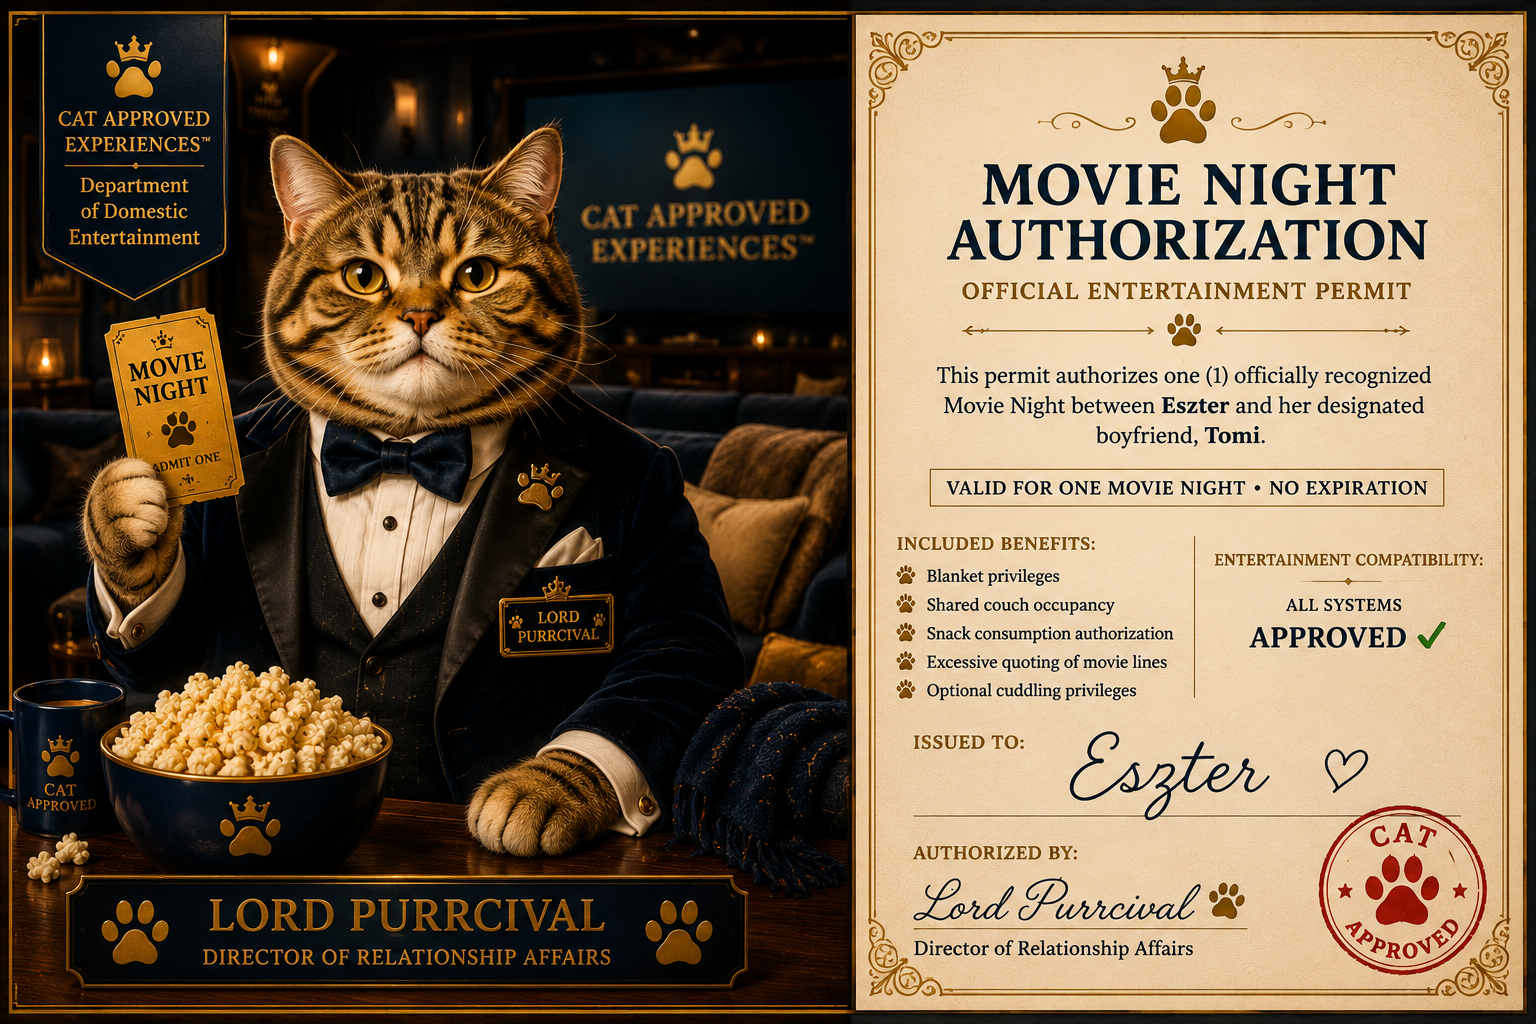
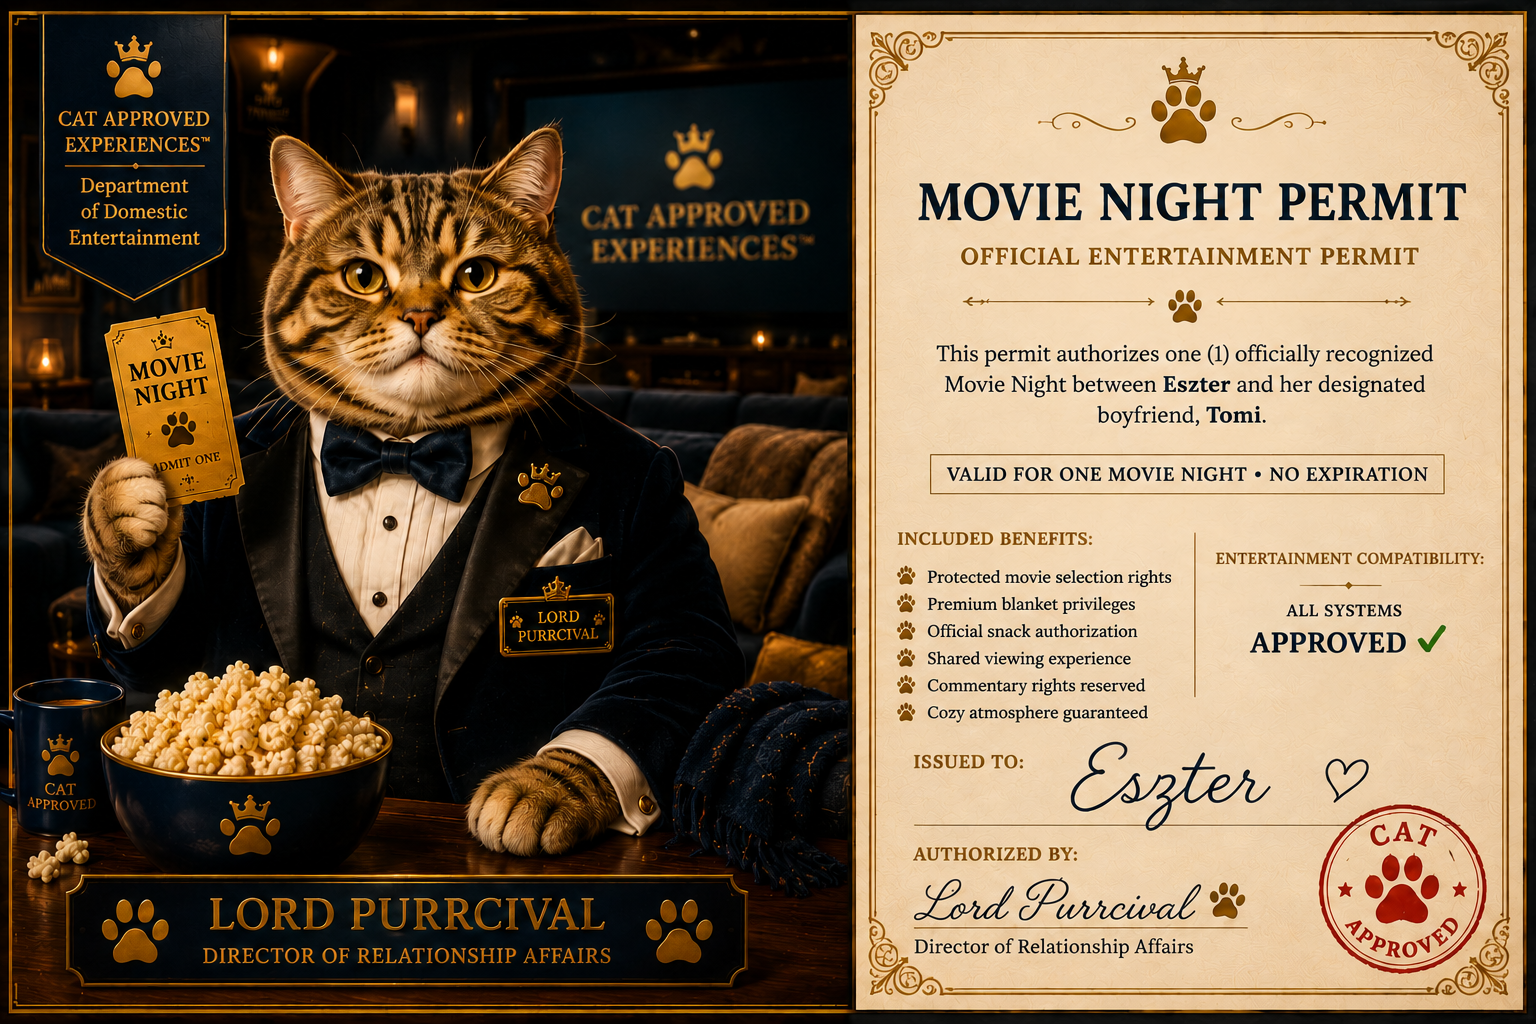
Align Movie Night Permit canon

diff --git a/shared/translations.js b/shared/translations.js
@@ -555,16 +555,16 @@ window.CAE_TRANSLATIONS = {
     },
     movieNight: {
         en: {
-            pageTitle: "Movie Night Authorization | Cat Approved Experiences™",
+            pageTitle: "Movie Night Permit | Cat Approved Experiences™",
             translatorAriaLabel: "Cat Approved Experiences translation services",
             languageSwitcherAriaLabel: "Language switcher",
-            title: "Movie Night Authorization",
+            title: "Movie Night Permit",
             certification: "🐾 Certified by Cat Approved Experiences™",
             translatorNote: "Translation services provided by Lord Purrcival in exchange for snacks.",
             department: "Department of Domestic Entertainment",
             approvedByLord: "Approved by Lord Purrcival",
             approvalOfficerLabel: "APPROVAL OFFICER",
-            approvalOfficerPortraitAlt: "Lord Purrcival serving as official approval officer for the Movie Night Authorization",
+            approvalOfficerPortraitAlt: "Lord Purrcival serving as official approval officer for the Movie Night Permit",
             approver: "Lord Purrcival",
             directorTitle: "Director of Relationship Affairs",
             applicationStatus: "Application Status",
@@ -573,14 +573,14 @@ window.CAE_TRANSLATIONS = {
             benefits: "Included Benefits",
             benefit1: "🧺 Blanket privileges",
             benefit2: "🛋 Shared couch occupancy",
-            benefit3: "🍿 Snack consumption authorization",
+            benefit3: "🍿 Snack consumption permit",
             benefit4: "🎭 Excessive quoting of movie lines",
             benefit5: "❤ Optional cuddling privileges",
             reviewTitle: "Entertainment Compatibility Review",
             reviewDescription: "Conduct a formal review before the entertainment schedule is approved.",
             reviewButton: "Conduct Entertainment Review",
             legalNotice: "Legal Notice",
-            legalText1: "This authorization remains valid until scheduled by Eszter.",
+            legalText1: "This permit remains valid until scheduled by Eszter.",
             legalText2: "Cat Approved Experiences™ accepts no responsibility for:",
             legal1: "Unplanned franchise marathons",
             legal2: "Snack ration renegotiation",
@@ -607,7 +607,7 @@ window.CAE_TRANSLATIONS = {
             requestSnackPlaceholder: "Popcorn, chocolate, drinks, or other authorized couch provisions.",
             requestMaterialsNote: "Title and snack details are required so Tomi can prepare the entertainment docket responsibly.",
             requestSubmitButton: "Submit Movie Night Request",
-            requestBackButton: "Return to Authorization",
+            requestBackButton: "Return to Permit",
             requestConfirmationSummaryTitle: "Submitted Request Details",
             actions: {
                 movieNightReview: {
@@ -637,7 +637,7 @@ window.CAE_TRANSLATIONS = {
                 }
             },
             redemptionRequest: {
-                couponName: "Movie Night Authorization",
+                couponName: "Movie Night Permit",
                 recipientName: "Eszter",
                 assignedTo: "Tomi",
                 reviewButton: "Review Submitted Request",
@@ -3623,7 +3623,7 @@ window.CAE_TRANSLATIONS = {
             coupon002Title: "Lazy Day Permit",
             coupon002Department: "Department of Relaxation",
             coupon002Description: "Authorize one protected period of doing absolutely nothing.",
-            coupon003Title: "Movie Night Authorization",
+            coupon003Title: "Movie Night Permit",
             coupon003Department: "Department of Domestic Entertainment",
             coupon003Description: "Plan one officially sanctioned evening of movies, snacks, blankets and quality time.",
             coupon004Title: "Passenger Princess Permit",
@@ -3713,7 +3713,7 @@ window.CAE_TRANSLATIONS = {
             coupon002Title: "Lazy Day Permit",
             coupon002Department: "Pihenésügyi Főosztály",
             coupon002Description: "Egy védett, semmittevésre kijelölt időszak engedélyezése.",
-            coupon003Title: "Movie Night Authorization",
+            coupon003Title: "Movie Night Permit",
             coupon003Department: "Otthoni Szórakoztatási Főosztály",
             coupon003Description: "Egy hivatalosan jóváhagyott filmes este tervezése nassolnivalóval, takarókkal és minőségi együtt töltött idővel.",
             coupon004Title: "Passenger Princess Permit",

diff --git a/movie-night/index.html b/movie-night/index.html
@@ -3,7 +3,7 @@
 <head>
     <meta charset="UTF-8">
     <meta name="viewport" content="width=device-width, initial-scale=1.0">
-    <title>Movie Night Authorization | Cat Approved Experiences™</title>
+    <title>Movie Night Permit | Cat Approved Experiences™</title>
 
     <link rel="icon" href="../shared/icons/favicon.svg" type="image/svg+xml">
 
@@ -63,7 +63,7 @@
             </div>
 
             <h1 id="coupon-title" data-i18n="title">
-                Movie Night Authorization
+                Movie Night Permit
             </h1>
 
             <p class="approval-statement" data-i18n="approvedByLord">
@@ -76,7 +76,7 @@
                     <img
                         class="approval-officer-portrait coupon-artwork"
                         src="../shared/images/lord-purrcival/movie-night.png"
-                        alt="Lord Purrcival serving as official approval officer for the Movie Night Authorization"
+                        alt="Lord Purrcival serving as official approval officer for the Movie Night Permit"
                         data-i18n-alt="approvalOfficerPortraitAlt"
                         width="1536"
                         height="1024"
@@ -137,7 +137,7 @@
 
                 <li data-i18n="benefit1">🧺 Blanket privileges</li>
                 <li data-i18n="benefit2">🛋 Shared couch occupancy</li>
-                <li data-i18n="benefit3">🍿 Snack consumption authorization</li>
+                <li data-i18n="benefit3">🍿 Snack consumption permit</li>
                 <li data-i18n="benefit4">🎭 Excessive quoting of movie lines</li>
                 <li data-i18n="benefit5">❤ Optional cuddling privileges</li>
 
@@ -179,7 +179,7 @@
             </h2>
 
             <p data-i18n="legalText1">
-                This authorization remains valid until scheduled by Eszter.
+                This permit remains valid until scheduled by Eszter.
             </p>
 
             <p data-i18n="legalText2">
@@ -231,7 +231,7 @@
     <section class="request-screen" data-request-screen hidden>
 
         <button class="secondary-button" type="button" data-request-back data-i18n="requestBackButton">
-            Return to Authorization
+            Return to Permit
         </button>
 
         <div class="request-panel" data-request-intro>

diff --git a/index.html b/index.html
@@ -220,7 +220,7 @@
                 </div>
                 <div class="catalogue-card-body">
                     <div class="coupon-id">CAE-003</div>
-                    <h3 data-i18n="coupon003Title">Movie Night Authorization</h3>
+                    <h3 data-i18n="coupon003Title">Movie Night Permit</h3>
                     <p class="catalogue-department" data-i18n="coupon003Department">Department of Domestic Entertainment</p>
                     <p data-i18n="coupon003Description">Plan one officially sanctioned evening of movies, snacks, blankets and quality time.</p>
                     <a class="catalogue-button" data-catalogue-link href="movie-night/?lang=en" data-language-link="movie-night/" data-i18n="catalogueOpen">Open Experience</a>

diff --git a/PROJECT.md b/PROJECT.md
@@ -575,7 +575,7 @@ Experiences intended to be enjoyed together.
 
 Examples:
 
-* Movie Night Authorization
+* Movie Night Permit
 * Dining Out Authorization
 
 ## Comfort Coupons
@@ -1087,7 +1087,7 @@ Movie Night request rules:
 * Movie or series title is required.
 * Snack request is required.
 * Blanket requirement is required.
-* Movie Night is a shared experience authorization, not a service request or recovery permit.
+* Movie Night is a shared experience permit, not a service request or recovery permit.
 
 Passenger Princess:
 
@@ -1461,7 +1461,7 @@ The Chef Pass portrait at `shared/images/lord-purrcival/chef-pass.png` is canon 
 
 The Lazy Day portrait at `shared/images/lord-purrcival/lazy-day.png` is canon for the Lazy Day Permit experience.
 
-The Movie Night portrait at `shared/images/lord-purrcival/movie-night.png` is canon for the Movie Night Authorization experience.
+The Movie Night portrait at `shared/images/lord-purrcival/movie-night.png` is canon for the Movie Night Permit experience.
 
 The Passenger Princess portrait at `shared/images/lord-purrcival/passenger-permit.png` is canon for the Passenger Princess Permit experience.
 
@@ -1872,7 +1872,7 @@ Complete
 
 Name:
 
-Movie Night Authorization
+Movie Night Permit
 
 Folder:
 

diff --git a/README.md b/README.md
@@ -58,7 +58,7 @@ Each implemented coupon folder contains its own `index.html` file.
 
 * `CAE-001` Chef Pass: `chef-pass/index.html`
 * `CAE-002` Lazy Day Permit: `lazy-day/index.html`
-* `CAE-003` Movie Night Authorization: `movie-night/index.html`
+* `CAE-003` Movie Night Permit: `movie-night/index.html`
 * `CAE-004` Passenger Princess Permit: `passenger-princess/index.html`
 * `CAE-005` Dining Out Authorization: `dining-out/index.html`
 * `CAE-006` Cuddle Authorization: `cuddle-authorization/index.html`

diff --git a/CHANGELOG.md b/CHANGELOG.md
@@ -23,7 +23,7 @@ Implemented coupons:
 
 * `CAE-001` Chef Pass
 * `CAE-002` Lazy Day Permit
-* `CAE-003` Movie Night Authorization
+* `CAE-003` Movie Night Permit
 * `CAE-004` Passenger Princess Permit
 * `CAE-005` Dining Out Authorization
 * `CAE-006` Cuddle Authorization
